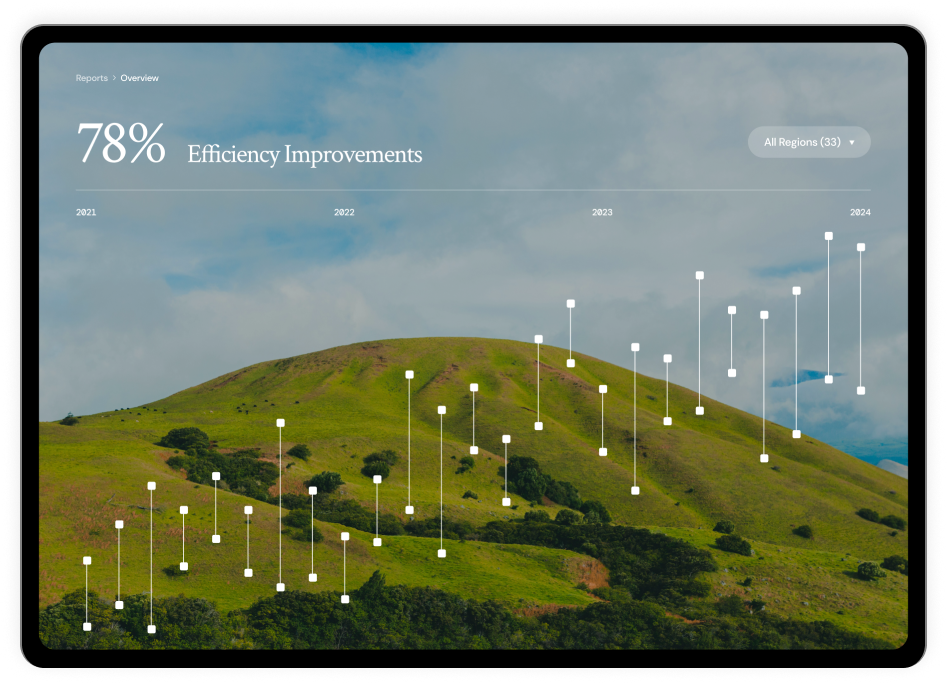
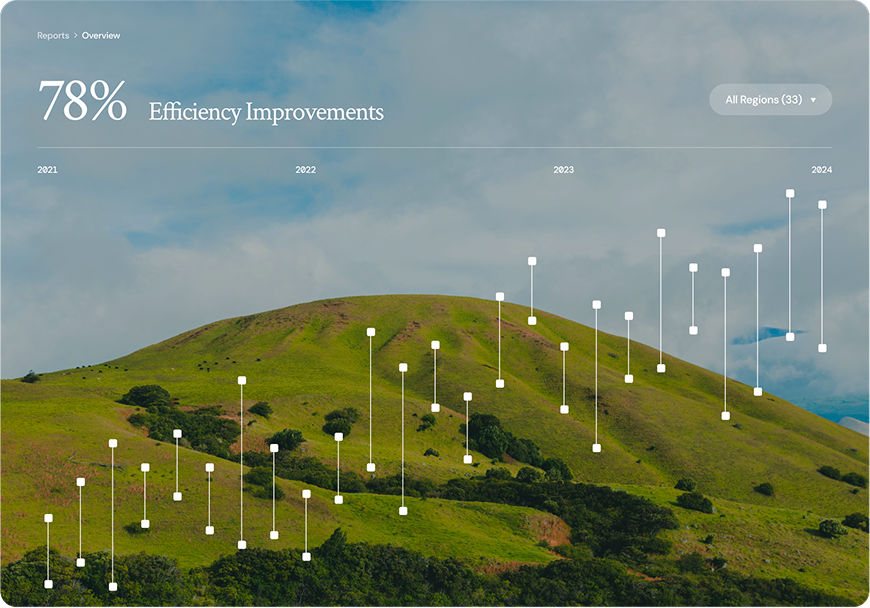
feat: Hero 섹션 UI 구현

diff --git a/src/commons/components/landing/Hero/styles.module.scss b/src/commons/components/landing/Hero/styles.module.scss
@@ -1,0 +1,147 @@
+@import '@/styles/_mixins.scss';
+
+.section {
+  @include section-padding;
+  display: flex;
+  justify-content: center;
+  padding-bottom: 120px;
+  background-color: #ffffff;
+}
+
+.inner {
+  @include container;
+  @include flex-col;
+  align-items: center;
+  gap: 120px;
+}
+
+.textGroup {
+  @include flex-col;
+  align-items: center;
+  gap: 24px;
+  text-align: center;
+}
+
+.badge {
+  display: inline-flex;
+  align-items: center;
+  justify-content: center;
+  padding: 14px 22px;
+  border-radius: 1000px;
+  background-color: #dfecc6;
+  font-size: 14px;
+  font-weight: 700;
+  line-height: 1.4;
+  letter-spacing: -0.35px;
+  color: #000000;
+}
+
+.title {
+  font-size: 4.8rem;
+  font-weight: 700;
+  line-height: 0.9;
+  letter-spacing: -0.03em;
+  color: #000000;
+}
+
+.description {
+  max-width: 560px;
+  font-size: 1.8rem;
+  line-height: 1.4;
+  color: #6f6f6f;
+}
+
+.visual {
+  display: flex;
+  flex-direction: column;
+  align-items: center;
+  gap: 32px;
+  width: 100%;
+  padding: 120px 0 0;
+}
+
+.device {
+  position: relative;
+  display: flex;
+  justify-content: center;
+  width: 100%;
+  height: 643px;
+  /* 레이어를 독립된 요소로 처리 */
+  isolation: isolate;
+
+  &::after {
+    content: '';
+    z-index: 1;
+    position: absolute;
+    left: 50%;
+    bottom: -46px;
+    transform: translateX(-50%);
+    width: min(1440px, 120vw);
+    height: 643px;
+    // height: clamp(420px, 44vw, 643px);
+    background: linear-gradient(
+      180deg,
+      rgba(255, 255, 255, 0) 29.53%,
+      rgba(255, 255, 255, 0.5) 55.93%,
+      #fff 77.25%
+    );
+    pointer-events: none;
+  }
+}
+
+.deviceFrame {
+  display: flex;
+  justify-content: center;
+  position: relative;
+  z-index: 1;
+  width: min(907px, 100%);
+  border-radius: 30px;
+  padding: 24px 18px;
+  background-color: #000000;
+  border: 2px solid rgba(255, 255, 255, 0.5);
+  box-shadow: 0 40px 120px rgba(0, 0, 0, 0.25);
+  /* 박스 섀도우 마스킹 */
+  mask-image: linear-gradient(180deg, #000 0%, #000 75%, rgba(0, 0, 0, 0) 100%);
+  -webkit-mask-image: linear-gradient(180deg, #000 0%, #000 75%, rgba(0, 0, 0, 0) 100%);
+}
+
+.picture {
+  display: block;
+  width: 100%;
+}
+
+.deviceImage {
+  width: 100%;
+  height: auto;
+  border-radius: 24px;
+  object-fit: cover;
+}
+
+@include mobile {
+  .inner {
+    gap: 120px;
+  }
+
+  .badge {
+    font-size: 12px;
+    padding: 10px 18px;
+  }
+
+  .title {
+    font-size: 2.8rem;
+    letter-spacing: -0.02em;
+  }
+
+  .description {
+    font-size: 1.4rem;
+  }
+
+  .deviceFrame {
+    padding: 16px 12px;
+    border-radius: 24px;
+  }
+
+  .deviceImage {
+    border-radius: 18px;
+  }
+}

diff --git a/src/commons/components/landing/Hero/index.tsx b/src/commons/components/landing/Hero/index.tsx
@@ -1,0 +1,56 @@
+import { HERO_DEVICE_IMAGE_MOBILE_SRC, HERO_DEVICE_IMAGE_SRC } from '@/commons/constants/images';
+import Image from 'next/image';
+import styles from './styles.module.scss';
+
+const HERO_CONTENT = {
+  badge: 'Syntekabio',
+  title: '이 페이지는 테스트 중입니다',
+  description: '면접 과제용으로 제작된 샘플 페이지입니다.',
+};
+
+const HERO_MEDIA = {
+  caption: '2021년부터 2024년까지 효율성 지표 변화를 시각화한 태블릿 화면',
+  desktopSrc: HERO_DEVICE_IMAGE_SRC,
+  mobileSrc: HERO_DEVICE_IMAGE_MOBILE_SRC,
+  alt: '33개 지역의 효율성 지표가 연도별로 증가하는 모습을 보여주는 태블릿 화면',
+  width: 907,
+  height: 644,
+};
+
+export const Hero = () => (
+  <section className={styles.section} aria-labelledby='hero-heading'>
+    <div>
+      <div className={styles.inner}>
+        <header className={styles.textGroup}>
+          <span className={styles.badge}>{HERO_CONTENT.badge}</span>
+          <h2 id='hero-heading' className={styles.title}>
+            {HERO_CONTENT.title}
+          </h2>
+          <p className={styles.description}>{HERO_CONTENT.description}</p>
+        </header>
+      </div>
+      <figure className={styles.visual} aria-labelledby='hero-visual-caption'>
+        <div className={styles.device}>
+          <div className={styles.deviceFrame}>
+            <picture className={styles.picture}>
+              <source media='(max-width: 768px)' srcSet={HERO_MEDIA.mobileSrc} />
+              <source media='(min-width: 769px)' srcSet={HERO_MEDIA.desktopSrc} />
+              <Image
+                src={HERO_MEDIA.desktopSrc}
+                alt={HERO_MEDIA.alt}
+                className={styles.deviceImage}
+                width={HERO_MEDIA.width}
+                height={HERO_MEDIA.height}
+                sizes='(max-width: 768px) 90vw, 907px'
+                priority
+              />
+            </picture>
+          </div>
+        </div>
+        <figcaption id='hero-visual-caption' className='sr-only'>
+          {HERO_MEDIA.caption}
+        </figcaption>
+      </figure>
+    </div>
+  </section>
+);

diff --git a/src/pages/index.tsx b/src/pages/index.tsx
@@ -1,9 +1,10 @@
-import HEAD from 'next/head';
+import { Hero } from '@/commons/components/landing/Hero';
+import Head from 'next/head';
 
 export default function Home() {
   return (
     <>
-      <HEAD>
+      <Head>
         {/* 1. 제목 설정 */}
         <title>[조윤우] 신테카바이오 면접과제 프로젝트</title>
 
@@ -23,7 +24,9 @@ export default function Home() {
         <meta property='og:image' content='/images/og-image.png' />
         <meta property='og:image:width' content='1200' />
         <meta property='og:image:height' content='630' />
-      </HEAD>
+      </Head>
+      {/* 섹션 조립 */}
+      <Hero />
     </>
   );
 }

diff --git a/src/styles/globals.scss b/src/styles/globals.scss
@@ -24,8 +24,8 @@ html {
 
 /* BODY 초기화 */
 body {
-  padding: 0;
   margin: 0;
+  padding: 0;
   min-height: 100vh;
   font-family: var(--primary-font);
   font-size: 1.4rem;
@@ -73,13 +73,36 @@ ol {
   padding: 0;
 }
 
+/* 제목 초기화 */
+h1,
+h2,
+h3,
+h4,
+h5,
+h6 {
+  margin: 0;
+  padding: 0;
+}
+
+/* 본문 초기화 */
+p {
+  margin: 0;
+  padding: 0;
+}
+
+/* figure 초기화 */
+figure {
+  margin: 0;
+  padding: 0;
+}
+
 /* 제목 스타일 설정 */
 h1 {
   font-size: min(5vw, 60px);
 }
 
 h2 {
-  font-size: 2.7rem;
+  font-size: 4.8rem;
 }
 
 /* 반응형 이미지, 비디오 */

diff --git a/src/styles/_mixins.scss b/src/styles/_mixins.scss
@@ -23,7 +23,7 @@ $breakpoint: 768px; // 모바일 전환점
 // 2. Section Base: 섹션별 상하 간격
 @mixin section-padding {
   width: 100%;
-  padding-top: 120px;
+  padding-bottom: 120px;
 }
 
 // 3. Flex Utilities (가로/세로 중앙 정렬)

diff --git a/src/commons/layout/styles.module.scss b/src/commons/layout/styles.module.scss
@@ -13,7 +13,7 @@
   display: flex;
   flex-direction: column;
   align-items: center;
-  padding: calc(56px + 130px) 0 130px;
+  padding: 130px 0;
 }
 
 .sectionSlot {
